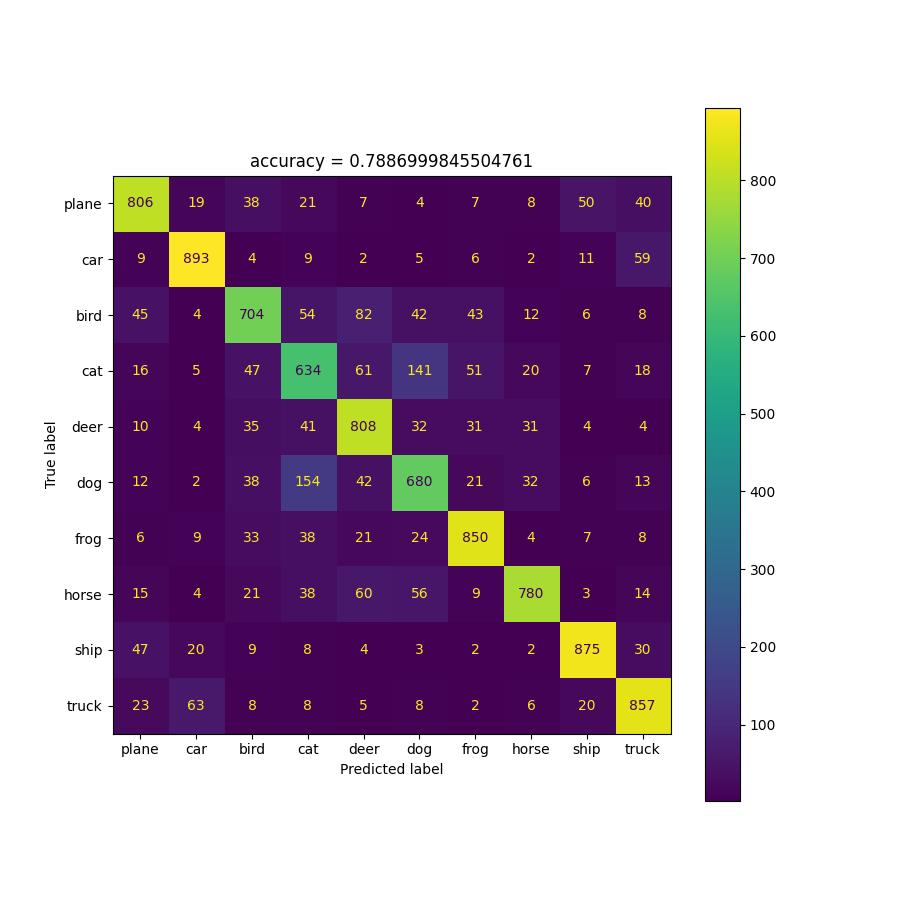
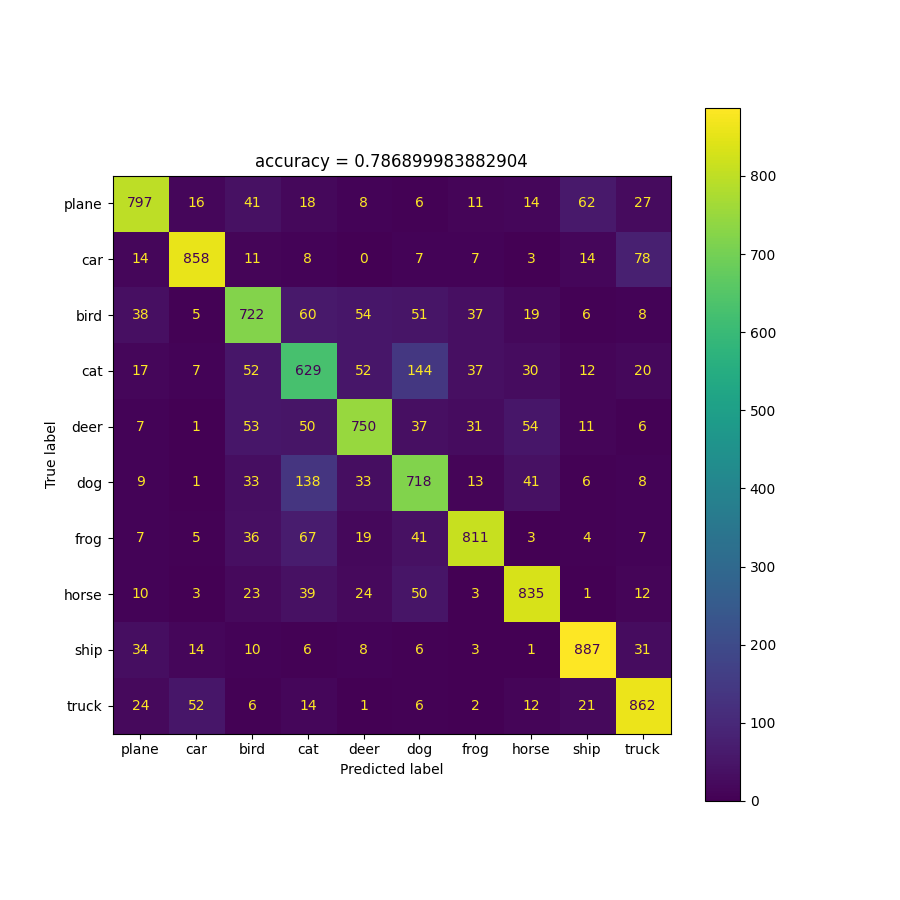
finished first run, setting more runs

diff --git a/train_rl_face.py b/train_rl_face.py
@@ -209,7 +209,7 @@ if __name__ == '__main__':
   removed_path = 'RaceDatasets'
   N = len(classes)
 
-  for run in ['White20', 'White30', 'White40', 'White50', 'White60']:
+  for run in ['White90', 'White95', 'White98']:
   
     trainloader, testloader, idx_to_label = get_face_data('Data/RaceDatasets/Percents', run, 128)
     n_classes = len(idx_to_label)

diff --git a/train_rl.py b/train_rl.py
@@ -119,7 +119,7 @@ def test(model, testloader):
 if __name__ == '__main__':
   trainloader, testloader = get_data()
 
-  for weight in np.linspace(.001,.1,20):
+  for weight in np.linspace(.001,.1,5):
 
     model = RingLossResNet(3, 10, .01, blocks_layers=[3,4,6,3]).to(device)
     crit = nn.CrossEntropyLoss()
